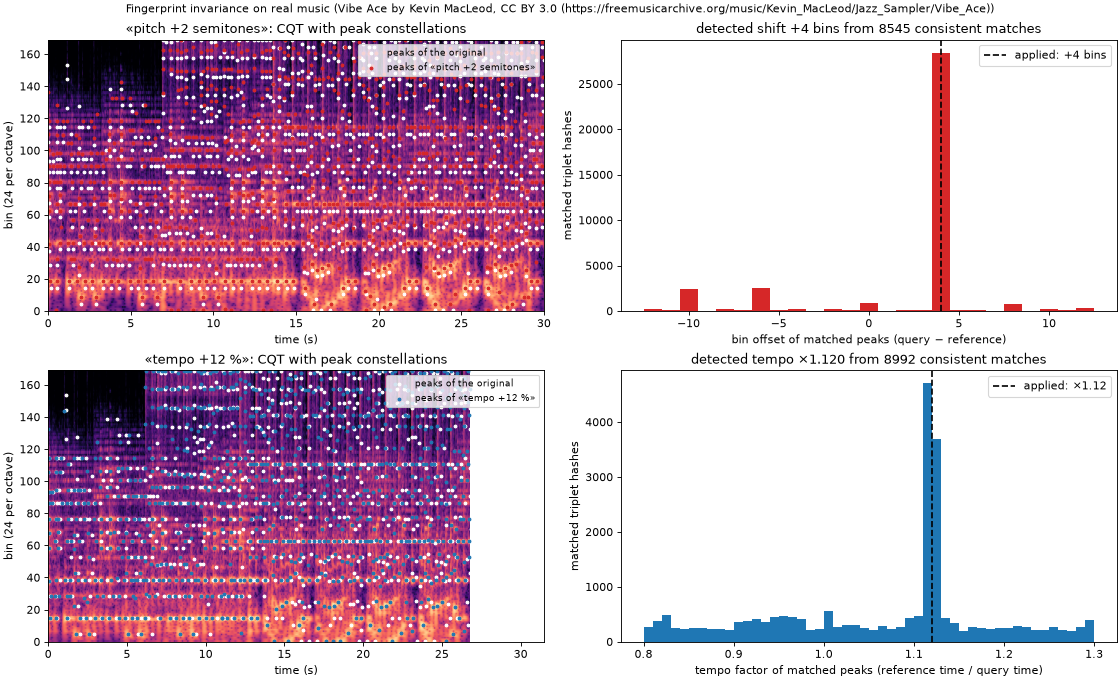
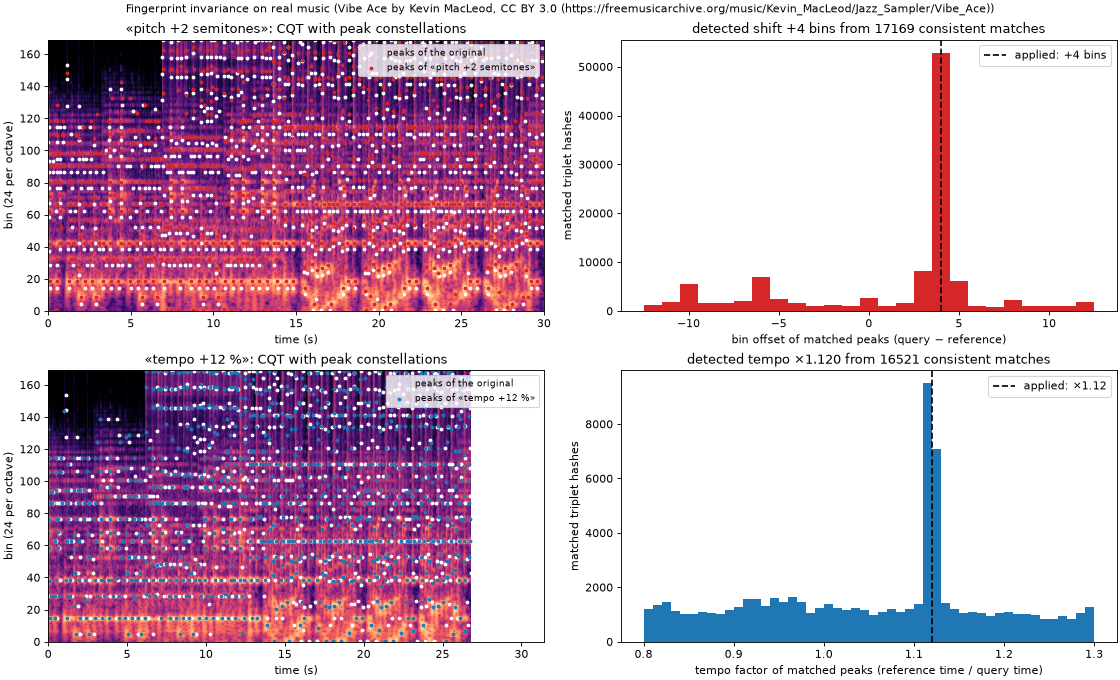
Strengthen the fingerprint demo and use an unrelated piece as control
Match peak-triplet hashes with ±1 bin tolerance, vote for the densest
(bin offset, tempo) cell instead of taking medians, and analyse at hop
256. The other half of the same song turned out to share riffs in the
same key and tempo, so an unrelated CC BY piece is now the negative
control (0.4 %); modified versions score 19 % to 63 %, up from 12 % to
49 %, with the applied pitch shift and tempo still recovered exactly.

Claude-Session: https://claude.ai/code/session_01V99q7FKCh8WL8cmQgbHNP3

diff --git a/scripts/fingerprint_demo.py b/scripts/fingerprint_demo.py
@@ -36,33 +36,43 @@ from scipy import ndimage  # noqa: E402
 ROOT = Path(__file__).resolve().parent.parent
 WORK = ROOT / "target" / "fingerprint_demo"
 PLOTS = ROOT / "plots"
+BASE_URL = "https://raw.githubusercontent.com/librosa/data/main/audio/"
 SOURCE = (
-    "https://raw.githubusercontent.com/librosa/data/main/audio/"
-    "Kevin_MacLeod_-_Vibe_Ace.hq.ogg"
+    "Kevin_MacLeod_-_Vibe_Ace.hq.ogg",
[1 lines of base64/hex data omitted]
 )
[1 lines of base64/hex data omitted]
+# An unrelated piece by the same producer as the negative control.
+CONTROL_SOURCE = (
+    "Kevin_MacLeod_-_P_I_Tchaikovsky_Dance_of_the_Sugar_Plum_Fairy.hq.ogg",
[1 lines of base64/hex data omitted]
+)
 ATTRIBUTION = (
     "Vibe Ace by Kevin MacLeod, CC BY 3.0 "
     "(https://freemusicarchive.org/music/Kevin_MacLeod/Jazz_Sampler/Vibe_Ace)"
 )
+CONTROL_ATTRIBUTION = (
+    "Dance of the Sugar Plum Fairy by Kevin MacLeod, CC BY 3.0 "
+    "(https://freemusicarchive.org/music/Kevin_MacLeod/Classical_Sampler/Dance_of_the_Sugar_Plum_Fairy)"
+)
 
 SR = 44_100
-HOP = 512
+HOP = 256
 MIN_FREQ = 55.0
 MAX_FREQ = 7_040.0
 BINS_PER_OCTAVE = 24
 EXCERPT = (0.5, 30.5)  # seconds
-CONTROL = (31.0, 61.0)  # the other, non-overlapping half of the song
+SAME_SONG = (31.0, 61.0)  # the other, non-overlapping half of the song
+CONTROL = (5.0, 35.0)  # window of the unrelated control piece
 
 
-def download() -> Path:
+def download(name: str, sha256: str) -> Path:
     WORK.mkdir(parents=True, exist_ok=True)
-    path = WORK / "vibe_ace.ogg"
-    if not path.exists() or hashlib.sha256(path.read_bytes()).hexdigest() != SOURCE_SHA256:
-        print(f"downloading {SOURCE}")
-        urllib.request.urlretrieve(SOURCE, path)
+    path = WORK / name
+    if not path.exists() or hashlib.sha256(path.read_bytes()).hexdigest() != sha256:
+        print(f"downloading {BASE_URL + name}")
+        urllib.request.urlretrieve(BASE_URL + name, path)
         digest = hashlib.sha256(path.read_bytes()).hexdigest()
-        if digest != SOURCE_SHA256:
+        if digest != sha256:
             sys.exit(f"checksum mismatch: {digest}")
     return path
 
@@ -85,7 +95,7 @@ def to_db(magnitudes: np.ndarray, top_db: float = 80.0) -> np.ndarray:
     return np.maximum(db, db.max() - top_db)
 
 
-def peaks(db: np.ndarray, time_radius: int = 12, bin_radius: int = 6, min_db: float = -50.0):
+def peaks(db: np.ndarray, time_radius: int = 24, bin_radius: int = 6, min_db: float = -50.0):
     """Local maxima of the dB spectrogram, as (frame, bin) pairs."""
     footprint = np.ones((2 * time_radius + 1, 2 * bin_radius + 1), dtype=bool)
     local_max = ndimage.maximum_filter(db, footprint=footprint, mode="nearest") == db
@@ -94,7 +104,7 @@ def peaks(db: np.ndarray, time_radius: int = 12, bin_radius: int = 6, min_db: fl
     return np.stack([frames, bins], axis=1)
 
 
-def triplet_hashes(points: np.ndarray, zone_frames: int = 120, fan_out: int = 6):
+def triplet_hashes(points: np.ndarray, zone_frames: int = 240, fan_out: int = 6):
     """Pitch- and tempo-invariant hashes from peak triplets.
 
     For peaks p1 < p2 < p3 in time the key is the two bin differences and the
@@ -122,45 +132,60 @@ def triplet_hashes(points: np.ndarray, zone_frames: int = 120, fan_out: int = 6)
     return hashes
 
 
-def match(query: dict, reference: dict, tolerance: int = 1):
+def match(query: dict, reference: dict, ratio_tolerance: int = 1, bin_tolerance: int = 1):
     """Returns matched (t_query, t_ref, b_query, b_ref) tuples.
 
-    Keys are looked up within ±`tolerance` on the quantized ratio, which
-    absorbs frame rounding after a tempo change; bin differences must match
-    exactly.
+    Keys are looked up within ±`ratio_tolerance` on the quantized ratio,
+    which absorbs frame rounding after a tempo change, and within
+    ±`bin_tolerance` on each bin difference, which absorbs peaks that move by
+    one bin under distortion.
     """
     pairs = []
+    offsets = range(-bin_tolerance, bin_tolerance + 1)
     for (d1, d2, r), q_entries in query.items():
-        for dr in range(-tolerance, tolerance + 1):
-            r_entries = reference.get((d1, d2, r + dr))
-            if not r_entries or len(r_entries) > 8:
-                continue
-            for tq, bq in q_entries:
-                for tr, br in r_entries:
-                    pairs.append((tq, tr, bq, br))
+        for e1 in offsets:
+            for e2 in offsets:
+                for dr in range(-ratio_tolerance, ratio_tolerance + 1):
+                    r_entries = reference.get((d1 + e1, d2 + e2, r + dr))
+                    if not r_entries or len(r_entries) > 8:
+                        continue
+                    for tq, bq in q_entries:
+                        for tr, br in r_entries:
+                            pairs.append((tq, tr, bq, br))
     return np.array(pairs, dtype=float).reshape(-1, 4)
 
 
 def estimate(pairs: np.ndarray):
-    """Robustly estimates the pitch shift (query − reference, in bins) and
-    the tempo factor (reference duration / query duration) from matched
-    pairs, and counts the pairs that agree with both estimates."""
+    """Estimates the pitch shift (query − reference, in bins) and the tempo
+    factor (reference duration / query duration) by voting: the densest
+    cell of a (bin offset, tempo) histogram wins, and the pairs within
+    ±1 bin and ±3 % of it count as consistent."""
     if len(pairs) < 10:
         return dict(matches=len(pairs), consistent=0, bins=np.nan, tempo=np.nan)
     pairs = pairs[(pairs[:, 0] > 0) & (pairs[:, 1] > 0)]
     d_bins = pairs[:, 2] - pairs[:, 3]
     tempo = pairs[:, 1] / pairs[:, 0]  # t_ref / t_query: > 1 when the query is faster
-    est_bins = int(np.round(np.median(d_bins)))
-    est_tempo = float(np.median(tempo))
+    keep = (np.abs(d_bins) <= 24) & (tempo > 0.7) & (tempo < 1.4)
+    d_bins, tempo = d_bins[keep], tempo[keep]
+    if len(d_bins) < 10:
+        return dict(matches=len(pairs), consistent=0, bins=np.nan, tempo=np.nan)
+    votes, bin_edges, tempo_edges = np.histogram2d(
+        d_bins, tempo, bins=[np.arange(-24.5, 25.5, 1.0), np.arange(0.7, 1.4001, 0.01)]
+    )
+    i, j = np.unravel_index(np.argmax(votes), votes.shape)
+    est_bins = int(round(bin_edges[i] + 0.5))
+    near = (np.abs(d_bins - est_bins) <= 1) & (np.abs(tempo - (tempo_edges[j] + 0.005)) <= 0.03)
+    est_tempo = float(np.median(tempo[near]))
     consistent = int(np.sum((np.abs(d_bins - est_bins) <= 1) & (np.abs(tempo - est_tempo) <= 0.03)))
     return dict(matches=len(pairs), consistent=consistent, bins=est_bins, tempo=est_tempo)
 
 
 def main() -> None:
-    ogg = download()
-    y, sr = librosa.load(ogg, sr=SR, mono=True)
+    y, sr = librosa.load(download(*SOURCE), sr=SR, mono=True)
     excerpt = y[int(EXCERPT[0] * sr) : int(EXCERPT[1] * sr)]
-    control = y[int(CONTROL[0] * sr) : int(CONTROL[1] * sr)]
+    same_song = y[int(SAME_SONG[0] * sr) : int(SAME_SONG[1] * sr)]
+    other, _ = librosa.load(download(*CONTROL_SOURCE), sr=SR, mono=True)
+    control = other[int(CONTROL[0] * sr) : int(CONTROL[1] * sr)]
     rng = np.random.default_rng(7)
 
     semitone_bins = BINS_PER_OCTAVE // 12
@@ -189,7 +214,8 @@ def main() -> None:
             0,
             1.0,
         ),
-        "control (other 30 s of the song)": (control, 0, 1.0),
+        "same song, other 30 s": (same_song, 0, 1.0),
+        "control (unrelated piece)": (control, 0, 1.0),
     }
 
     spectrograms = {}
@@ -312,12 +338,13 @@ def main() -> None:
     fig, ax = plt.subplots(figsize=(10, 4.8), constrained_layout=True)
     names = [r[0] for r in rows]
     scores = [100.0 * r[2]["consistent"] / max(r[1], 1) for r in rows]
-    bars = ax.barh(names, scores, color=["tab:green" if "control" not in n else "tab:gray" for n in names])
+    colours = ["tab:gray" if "control" in n else "tab:olive" if "same song" in n else "tab:green" for n in names]
+    bars = ax.barh(names, scores, color=colours)
     for bar, s in zip(bars, scores):
         ax.text(bar.get_width() + 0.5, bar.get_y() + bar.get_height() / 2, f"{s:.1f} %", va="center")
     ax.invert_yaxis()
     ax.set_xlabel("triplet hashes matched consistently with the original (%)")
-    ax.set_title("Fingerprint match against the original 30 s excerpt")
+    ax.set_title("Fingerprint match against the original 30 s excerpt (control: " + CONTROL_ATTRIBUTION.split(",")[0] + ")", fontsize=10)
     ax.set_xlim(0, max(scores) * 1.2)
     fig.savefig(PLOTS / "song_match_scores.png", dpi=100)
     plt.close(fig)

diff --git a/README.md b/README.md
@@ -158,10 +158,13 @@ cargo run --release --example generate_plots
 `scripts/fingerprint_demo.py` runs the transform (through
 `examples/cqt_dump.rs`) on a 30 s excerpt of *Vibe Ace* by Kevin MacLeod
 (CC BY 3.0, fetched from the librosa example-data repository), on modified
-versions of it, and on a non-overlapping part of the same song as a control.
-Each spectrogram is fingerprinted with pitch- and tempo-invariant peak
-triplets (bin differences plus a quantized time ratio, as in Panako) and
-matched against the original.
+versions of it, on the other half of the same song, and on an unrelated
+piece (*Dance of the Sugar Plum Fairy*, Kevin MacLeod, CC BY 3.0) as the
+negative control. Each spectrogram (hop 256) is fingerprinted with pitch-
+and tempo-invariant peak triplets (two bin differences plus a quantized
+time ratio, as in Panako), looked up with ±1 bin and ±1 ratio step of
+tolerance, and matched against the original by voting for the densest
+(bin offset, tempo) cell.
 
 Accuracy: after dividing out librosa's per-filter length scaling, the two
 spectrograms agree to a mean 0.20 dB (0.13 dB on components above −40 dB)
@@ -173,20 +176,23 @@ with a correlation of 0.9996, and the linear gain ratio is 1.009.
 
 | Version | Hashes | Consistent matches | Score | Applied shift (bins) | Detected | Applied tempo | Detected |
 | --- | ---: | ---: | ---: | ---: | ---: | ---: | ---: |
-| original | 71871 | 73703 | 102.5 % | +0 | +0 | ×1.00 | ×1.000 |
-| pitch +2 semitones | 70946 | 8545 | 12.0 % | +4 | +4 | ×1.00 | ×1.000 |
-| pitch −1 semitone | 70099 | 8858 | 12.6 % | −2 | −2 | ×1.00 | ×1.000 |
-| tempo +12 % | 66670 | 8992 | 13.5 % | +0 | +0 | ×1.12 | ×1.120 |
-| tempo −8 % | 77192 | 9309 | 12.1 % | +0 | +0 | ×0.92 | ×0.921 |
-| speed +6 % (resampled) | 66570 | 26933 | 40.5 % | +2 | +2 | ×1.06 | ×1.060 |
-| hard clip at 0.2 | 72672 | 35302 | 48.6 % | +0 | +0 | ×1.00 | ×1.000 |
-| white noise, 10 dB SNR | 84696 | 12711 | 15.0 % | +0 | +0 | ×1.00 | ×1.000 |
-| control (other 30 s of the song) | 69710 | 491 | 0.7 % | +0 | +0 | ×1.00 | — |
+| original | 76341 | 80141 | 105.0 % | +0 | +0 | ×1.00 | ×1.000 |
+| pitch +2 semitones | 75770 | 17169 | 22.7 % | +4 | +4 | ×1.00 | ×1.000 |
+| pitch −1 semitone | 75341 | 16434 | 21.8 % | −2 | −2 | ×1.00 | ×1.000 |
+| tempo +12 % | 69879 | 16521 | 23.6 % | +0 | +0 | ×1.12 | ×1.120 |
+| tempo −8 % | 81692 | 18322 | 22.4 % | +0 | +0 | ×0.92 | ×0.920 |
+| speed +6 % (resampled) | 72138 | 45519 | 63.1 % | +2 | +2 | ×1.06 | ×1.060 |
+| hard clip at 0.2 | 77315 | 41707 | 53.9 % | +0 | +0 | ×1.00 | ×1.000 |
+| white noise, 10 dB SNR | 89016 | 16730 | 18.8 % | +0 | +0 | ×1.00 | ×1.000 |
+| same song, other 30 s | 74482 | 5501 | 7.4 % | +0 | +0 | ×1.00 | ×1.046 |
+| control (unrelated piece) | 57285 | 204 | 0.4 % | +0 | — | ×1.00 | — |
 
-Every modified version is identified with a score 17× to 70× above the
-control, and the pitch shift and tempo factor recovered from the matched
-peaks equal the applied ones (a score above 100 % means several reference
-hashes matched the same query hash).
+Every modified version scores at least 47× the unrelated control, and the
+pitch shift and tempo factor recovered from the matched peaks equal the
+applied ones. The other half of the same song scores 7.4 % because it
+repeats the same riffs in the same key and tempo; that is real shared
+content, not a false positive. A score above 100 % means several reference
+hashes matched the same query hash.
 
 <p align="center">
   <img src="./plots/song_pitch_tempo_proof.png" width="98%" />
